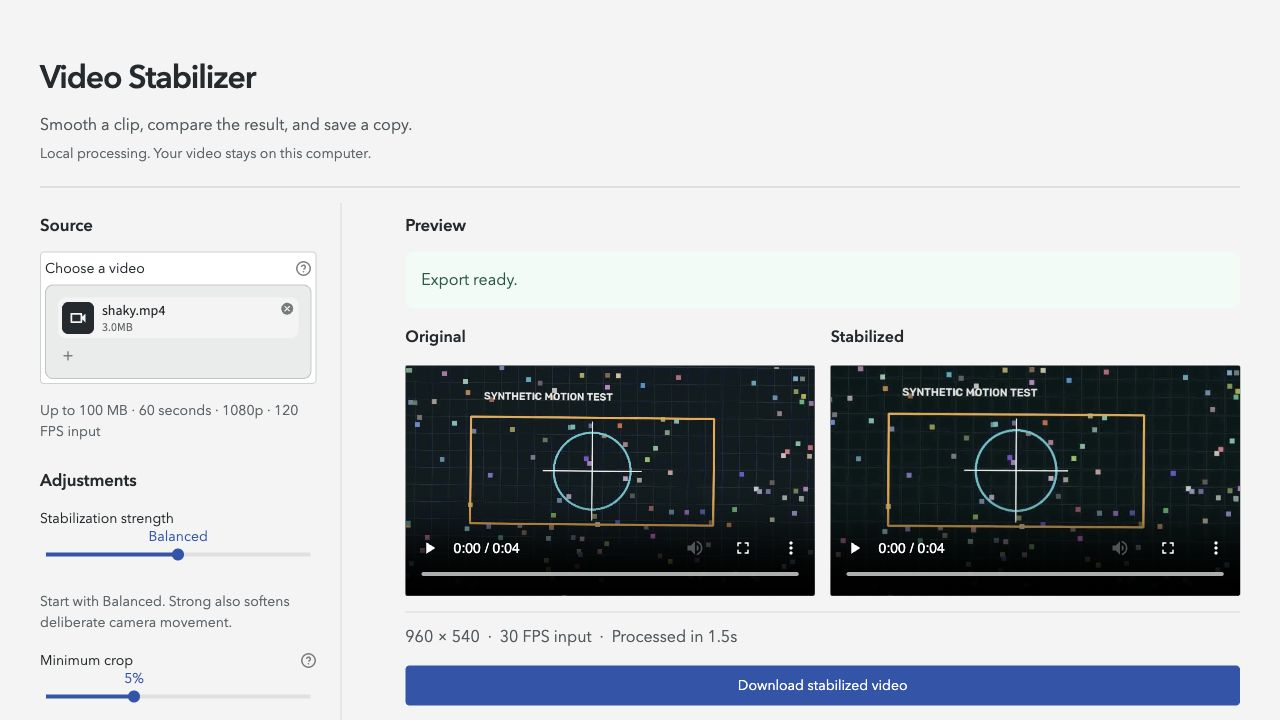
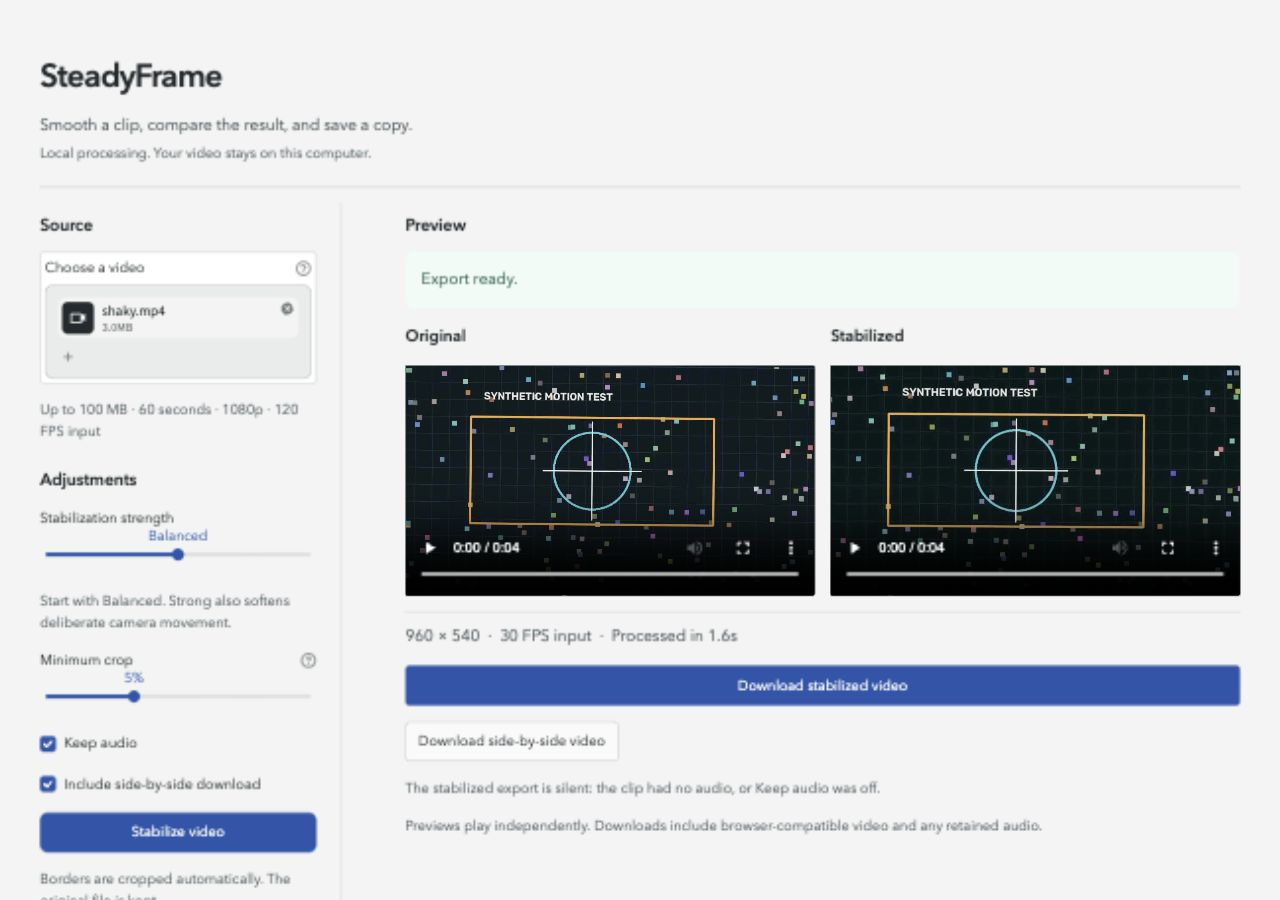
Brand the app, launcher, and documentation as SteadyFrame

diff --git a/src/video_stabilizer/ui.py b/src/video_stabilizer/ui.py
@@ -1,4 +1,4 @@
-"""Local browser interface. Run with video-stabilizer-ui."""
+"""SteadyFrame local browser interface. Run with steadyframe-ui."""
 import hashlib
 import logging
 from pathlib import Path
@@ -9,7 +9,7 @@ import streamlit as st
 from video_stabilizer.core import stabilize
 from video_stabilizer.web import encode_for_browser, inspect_video
 
-st.set_page_config(page_title="Video Stabilizer", page_icon=":material/movie:", layout="wide")
+st.set_page_config(page_title="SteadyFrame", page_icon=":material/movie:", layout="wide")
 st.markdown("""
 <style>
 .block-container {max-width: 1320px; padding: 1.4rem 2.5rem 1.5rem;}
@@ -48,7 +48,7 @@ hr {border-color: #d5dad9; margin: .4rem 0 1rem !important;}
 }
 </style>
 """, unsafe_allow_html=True)
-st.title("Video Stabilizer")
+st.title("SteadyFrame")
 st.markdown('<p class="app-intro">Smooth a clip, compare the result, and save a copy.</p>', unsafe_allow_html=True)
 st.caption("Local processing. Your video stays on this computer.")
 st.divider()
@@ -94,7 +94,7 @@ with workspace:
         try:
             if uploaded.size > 100 * 1024 * 1024:
                 raise ValueError("Please choose a video smaller than 100 MB.")
-            with tempfile.TemporaryDirectory(prefix="motion-lab-") as directory:
+            with tempfile.TemporaryDirectory(prefix="steadyframe-") as directory:
                 work = Path(directory)
                 source = work / ("input" + Path(uploaded.name).suffix.lower())
                 source.write_bytes(uploaded.getbuffer())

diff --git a/src/video_stabilizer/launcher.py b/src/video_stabilizer/launcher.py
@@ -8,7 +8,7 @@ def main():
     try:
         import streamlit  # noqa: F401
     except ImportError:
-        raise SystemExit("Install the browser interface with: pip install 'video-stabilizer[ui]'")
+        raise SystemExit("From the SteadyFrame project folder, install the browser interface with: pip install -e '.[ui]'")
     app = Path(__file__).with_name("ui.py")
     try:
         subprocess.run([sys.executable, "-m", "streamlit", "run", str(app),

diff --git a/tests/test_browser_ui.py b/tests/test_browser_ui.py
@@ -25,6 +25,7 @@ def clip(path, frames=12, fps=24):
 def test_upload_process_download_and_replace_input(tmp_path):
     app = AppTest.from_file(str(APP), default_timeout=30).run()
     assert not app.exception
+    assert app.title[0].value == "SteadyFrame"
     assert app.button[0].disabled
     data = clip(tmp_path / "source.mp4")
     app.file_uploader[0].set_value(("holiday.mp4", data, "video/mp4")).run()

diff --git a/README.md b/README.md
@@ -1,4 +1,6 @@
-# Motion-Aware Video Stabilizer
+# SteadyFrame
+
+[![Tests](https://github.com/varunmenon0/SteadyFrame/actions/workflows/tests.yml/badge.svg)](https://github.com/varunmenon0/SteadyFrame/actions/workflows/tests.yml)
 
 Offline video stabilization built with Python, OpenCV, and NumPy.
 
@@ -12,7 +14,7 @@ The pipeline detects up to 500 corners per frame, tracks them with Lucas–Kanad
 
 ![Local browser interface showing original and stabilized previews](docs/browser-interface.jpg)
 
-On a Mac, double-click **Open Video Stabilizer.command** in the project folder. The launcher opens a local browser interface. First-time setup requires Python 3.10 or newer and an internet connection to install dependencies. Keep the launcher's window open while using the app; closing it stops the local server.
+On a Mac, double-click **Open SteadyFrame.command** in the project folder. The launcher opens a local browser interface. First-time setup requires Python 3.10 or newer and an internet connection to install dependencies. Keep the launcher's window open while using the app; closing it stops the local server.
 
 Upload a clip, choose Gentle, Balanced, or Strong smoothing, then click **Stabilize video**. The interface shows progress, original and stabilized previews, and downloads for the result and optional side-by-side video. Audio is retained by default. Previews play independently.
 
@@ -21,10 +23,12 @@ The browser interface accepts clips up to 100 MB, 60 seconds, 1080p (landscape o
 For manual setup or other platforms:
 
 ```sh
+git clone https://github.com/varunmenon0/SteadyFrame.git
+cd SteadyFrame
 python3 -m venv .venv
 source .venv/bin/activate
 pip install -e '.[dev,ui]'
-video-stabilizer-ui
+steadyframe-ui
 ```
 
 The interface opens at `http://127.0.0.1:8501`. Stop it with Ctrl+C in its launch window. On Windows, activate with `.venv\Scripts\activate` instead. The Mac launcher is not a signed desktop application.
@@ -40,7 +44,7 @@ pip install -e '.[dev]'
 ## Usage
 
 ```sh
-video-stabilizer input.mp4 outputs/stabilized.mp4 --comparison outputs/comparison.mp4
+steadyframe input.mp4 outputs/stabilized.mp4 --comparison outputs/comparison.mp4
 ```
 
 The comparison shows the original video on the left and stabilized output on the right.
